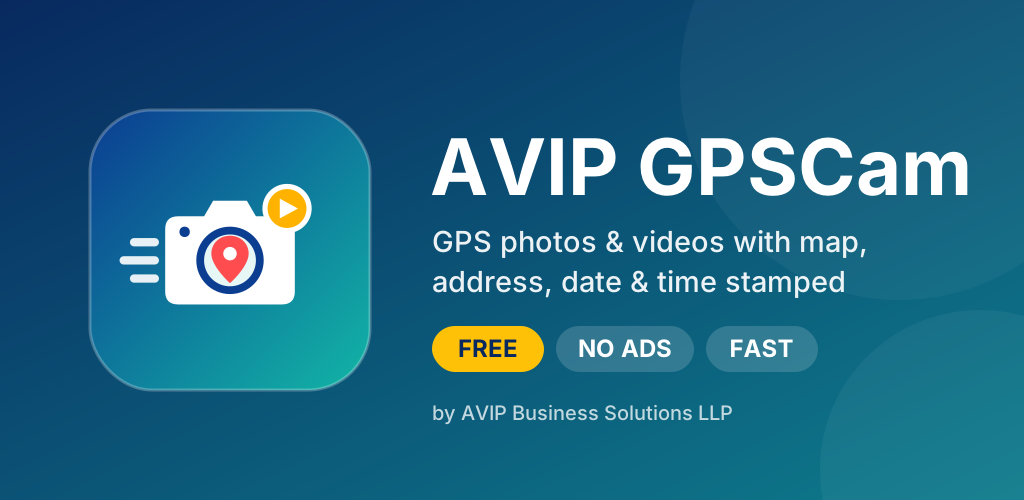
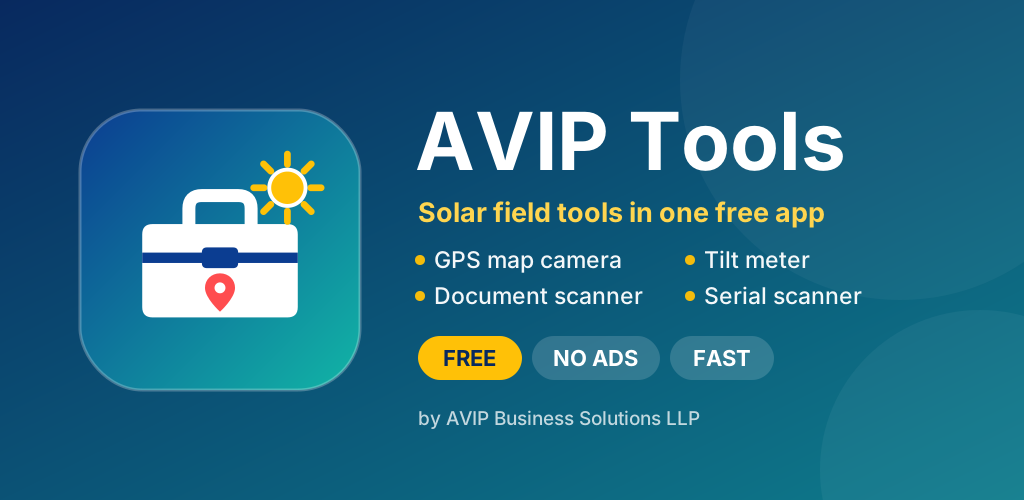
AVIP Tools: privacy policy, Play listing and graphics for the new tools [skip ci]
Claude-Session: https://claude.ai/code/session_01HDzCaW6anExMwJiEikiLrr

diff --git a/docs/privacy.html b/docs/privacy.html
@@ -3,7 +3,7 @@
 <head>
 <meta charset="utf-8">
 <meta name="viewport" content="width=device-width, initial-scale=1">
-<title>AVIP GPSCam – Privacy Policy</title>
+<title>AVIP Tools – Privacy Policy</title>
 <style>
   :root { --ink:#1b2430; --muted:#5b6673; --brand:#0B3D91; --bg:#ffffff; --line:#e3e8ee; }
   body { margin:0; background:var(--bg); color:var(--ink);
@@ -21,10 +21,10 @@
 </head>
 <body>
 <main>
-<h1>AVIP GPSCam – Privacy Policy</h1>
-<p class="muted">Effective date: 31 October 2026</p>
+<h1>AVIP Tools – Privacy Policy</h1>
+<p class="muted">Effective date: 2 November 2026 · AVIP Tools was previously called AVIP GPSCam</p>
 
-<p>AVIP GPSCam ("the app") is a free camera app published by <strong>AVIP Business Solutions LLP</strong>
+<p>AVIP Tools ("the app") is a free set of field tools – GPS camera, tilt meter, document scanner and serial number scanner – published by <strong>AVIP Business Solutions LLP</strong>
 ("AVIP", "we", "us"), AIIMS–Naubatpur New Nahar Road, Patna – 801109, Bihar, India.
 This policy explains what information the app uses, why, and the choices you have.</p>
 
@@ -49,9 +49,16 @@ for marketing if you did not give consent.</p>
   <tr><td>Camera</td><td>Taking photos and recording videos.</td></tr>
   <tr><td>Microphone</td><td>Recording sound with videos. If you deny it, videos are recorded without sound.</td></tr>
   <tr><td>Location (precise and approximate)</td><td>Stamping your location (map, address, latitude and longitude) on your photos and videos, and adding GPS details to the photo file. Location is used only while the app is open; it is never used in the background.</td></tr>
-  <tr><td>Motion sensors</td><td>Showing the level line and the north arrow / direction the camera faces.</td></tr>
+  <tr><td>Motion sensors</td><td>The level line, the north arrow / direction the camera faces, and the Tilt Meter. Sensor readings stay on the phone.</td></tr>
 </table>
-<p>Your photos, videos and your location are <strong>not uploaded to AVIP</strong>. Photos and videos are saved
+
+<h2>2a. Document Scanner and Serial Scanner</h2>
+<ul>
+  <li><strong>Document Scanner</strong> uses Google's ML Kit document scanner, provided by Google Play services on your phone. Pages are processed on the phone and saved as PDF files in the <em>Documents/AVIP Tools</em> folder. They are not uploaded to AVIP.</li>
+  <li><strong>Serial Scanner</strong> reads barcodes, QR codes and printed serial numbers with Google ML Kit, on the phone. Your serial-number lists are stored only on your phone and are shared only when you choose to share them (for example as an Excel/CSV file or text).</li>
+  <li>To run these features, Google ML Kit may send Google limited diagnostic information: device details (manufacturer, model, Android version), app name and version, an installation or device identifier, and performance and error information. Google uses this to run and improve ML Kit; it does not include your images or scanned text. See the <a href="https://developers.google.com/ml-kit/android-data-disclosure">ML Kit data disclosure</a> and the <a href="https://policies.google.com/privacy">Google privacy policy</a>.</li>
+</ul>
+<p>Your photos, videos, scanned documents, serial numbers and your location are <strong>not uploaded to AVIP</strong>. Photos and videos are saved
 only on your phone, in the <em>Pictures/GPSMapCamera</em> folder, and are shared only when you choose to share them.</p>
 
 <h2>3. Services that receive your location</h2>
@@ -66,7 +73,7 @@ only on your phone, in the <em>Pictures/GPSMapCamera</em> folder, and are shared
 <h2>4. What we do not do</h2>
 <ul>
   <li>No advertisements and no advertising IDs.</li>
-  <li>No analytics or tracking tools.</li>
+  <li>No analytics or tracking tools of our own (Google ML Kit diagnostics are described in section 2a).</li>
   <li>We do not sell or rent your personal information to anyone.</li>
   <li>We do not access photos or files other than those the app itself saved.</li>
 </ul>
@@ -81,9 +88,9 @@ only by AVIP. We may disclose information if required by law.</p>
 <h2>7. Your choices and deleting your data</h2>
 <ul>
   <li>You can deny any permission in your phone's settings; the related feature will then not work.</li>
-  <li>You can delete photos and videos at any time from the app's gallery or your phone's gallery.</li>
+  <li>You can delete photos, videos, PDFs and serial lists at any time from inside the app or from your phone's files and gallery.</li>
   <li>To stop marketing messages, or to have your registration details deleted, email
-    <a href="mailto:contact@avipsolar.in?subject=AVIP%20GPSCam%20data%20deletion">contact@avipsolar.in</a>
+    <a href="mailto:contact@avipsolar.in?subject=AVIP%20Tools%20data%20deletion">contact@avipsolar.in</a>
     or call <a href="tel:+919288076289">+91 92880 76289</a> with the mobile number you registered.
     We will delete your details within 30 days.</li>
 </ul>

diff --git a/docs/index.html b/docs/index.html
@@ -1,4 +1,4 @@
 <!doctype html>
 <html lang="en"><head><meta charset="utf-8"><meta name="viewport" content="width=device-width, initial-scale=1">
-<title>AVIP GPSCam</title><meta http-equiv="refresh" content="0; url=privacy.html"></head>
-<body><p><a href="privacy.html">AVIP GPSCam – Privacy Policy</a></p></body></html>
+<title>AVIP Tools</title><meta http-equiv="refresh" content="0; url=privacy.html"></head>
+<body><p><a href="privacy.html">AVIP Tools – Privacy Policy</a></p></body></html>

diff --git a/play-store/LISTING.md b/play-store/LISTING.md
@@ -1,38 +1,49 @@
-# AVIP GPSCam – Google Play listing and submission guide
+# AVIP Tools – Google Play listing and submission guide
 
-App ID on Google Play: **in.avipsolar.gpscam** (permanent – cannot be changed after the first upload)
+App ID on Google Play: **in.avipsolar.tools** (permanent – cannot be changed after the first upload)
 Privacy policy URL: **https://avipbizsolutions.github.io/GPSMapCamera/privacy.html**
+(AVIP Tools was previously called AVIP GPSCam. The link version keeps its old ID so existing users update automatically.)
 
 ## 1. Store listing (Grow → Store presence → Main store listing)
 
-**App name** (max 30): `AVIP GPSCam: GPS Map Camera`
+**App name** (max 30): `AVIP Tools: GPS Cam & Scanner`
 
 **Short description** (max 80):
-`Free GPS camera: stamp map, address, date & time on photos & videos. No ads.`
+`GPS map camera, tilt meter, PDF scanner & serial number scanner. Free, no ads.`
 
 **Full description:**
 
-AVIP GPSCam stamps every photo and video with a map, the full address, latitude and longitude, date and time, and the direction the camera faced. It is ideal proof for site visits, solar and electrical installations, inspections, deliveries, construction progress and any field work.
+AVIP Tools puts the everyday field tools of a solar, electrical or construction team into one free app: a GPS map camera, a tilt meter, a multi-page document scanner and a barcode / serial number scanner.
 
-**Why AVIP GPSCam**
+**Why AVIP Tools**
 • 100% free – no charges, ever
 • No ads – nothing to skip or close
-• Fast and reliable – opens quickly, finds your location while it loads
+• Fast and reliable – opens quickly and finds your location while it loads
 • Light on your phone – will not slow it down
 
-**Features**
-• GPS stamp with mini map, address, latitude/longitude, date and time
+**GPS Camera**
+• Stamps photos and videos with a mini map, address, latitude/longitude, date and time
 • North arrow and "Facing" direction on photos
 • See the stamp live on the camera screen before you shoot
-• Photos and videos, in portrait or landscape
-• HD or SD quality – choose smaller files for quick sharing
-• Zoom (pinch or 0.5x / 1x / 2x / 5x), tap to focus
-• Grid lines and a level to keep shots straight
+• Portrait or landscape, HD or SD, zoom, tap to focus, grid lines and level
 • Built-in gallery: swipe through, select several, share or delete
-• GPS details also saved inside the photo file (EXIF)
-• Works offline – coordinates and time are stamped even without internet
 
-Photos and videos stay on your phone in Pictures/GPSMapCamera and are shared only when you choose.
+**Tilt Meter**
+• Lay the phone on a roof or panel to read its angle
+• Bubble level, hold reading, set zero
+• Shows which way the surface faces and the best fixed panel tilt for your location
+
+**Document Scanner**
+• Scan many pages into one PDF with automatic cropping and clean-up
+• Saved in Documents/AVIP Tools – open, share or delete
+
+**Serial Scanner**
+• Make a list per site or customer and scan panel and inverter barcodes / QR codes – each new code is added automatically
+• Read printed serial numbers with text recognition and tap to add
+• Torch for dark inverter rooms, manual entry, copy all
+• Share the list as an Excel (CSV) file or as a text message
+
+Everything you capture stays on your phone and is shared only when you choose.
 
 Made by AVIP Business Solutions LLP, Patna – one stop solution for all your solar requirements.
 Contact: 9288076289 | 9939476289 | contact@avipsolar.in
@@ -40,9 +51,9 @@ Contact: 9288076289 | 9939476289 | contact@avipsolar.in
 **Graphics**
 - App icon: `play-icon-512.png` (512 × 512)
 - Feature graphic: `play-feature-graphic-1024x500.png` (1024 × 500)
-- Phone screenshots (2–8 needed, take on your phone): camera screen with the live stamp; a saved photo with the stamp; a landscape photo; the gallery with items selected; the full-screen viewer; the launch screen.
+- Phone screenshots (2–8, take on your phone): home screen; GPS camera with the live stamp; a saved photo with the stamp; Tilt Meter on a roof/panel; Document Scanner with saved PDFs; Serial Scanner with a list of scanned serials.
 
-**Category:** Photography  **Tags:** Camera, Photography, Tools
+**Category:** Tools  **Tags:** Camera, Productivity, Tools
 **Contact details:** email contact@avipsolar.in, phone +91 9288076289, website https://avipsolar.in
 
 ## 2. App content (Policy → App content)
@@ -71,23 +82,25 @@ Contact: 9288076289 | 9939476289 | contact@avipsolar.in
 | Personal info → Name | Yes | No | Required | Developer communications, Marketing |
 | Personal info → Phone number | Yes | No | Required | Developer communications, Marketing |
 | Personal info → Other info (company name) | Yes | No | Required | Developer communications, Marketing |
-| Device or other IDs (random install ID created by the app) | Yes | No | Required | App functionality |
+| Device or other IDs (random install ID created by the app; ML Kit installation/device identifier) | Yes | No | Required | App functionality, Analytics |
+| App info and performance → Diagnostics (ML Kit performance and error information, sent to Google) | Yes | No | Required | Analytics |
 | Location → Approximate location (map tiles requested from OpenStreetMap) | Yes, processed ephemerally | Yes (OpenStreetMap, for the map image) | Required for the map stamp | App functionality |
 
-Not collected (stay on the phone): precise location, photos, videos, audio, files, contacts, app activity. Sharing a photo is user-initiated and is not declared.
+Not collected (stay on the phone): precise location, photos, videos, scanned documents, scanned serial numbers, audio, files, contacts. Sharing a photo, PDF or serial list is started by the user and is not declared.
+Google ML Kit's own disclosure: https://developers.google.com/ml-kit/android-data-disclosure
 
 ## 4. Release (Test and release)
 
-1. **Play App Signing:** keep Google's default (Google manages the app signing key). Our file `avip-gpscam-upload.jks` is the **upload key**.
+1. **Play App Signing:** keep Google's default (Google manages the app signing key). Our file `avip-gpscam-upload.jks` is the **upload key** (the name is from before the rename; it is still the right key).
 2. Personal developer account: create a **Closed testing** track first, add at least 12 testers, keep them opted in for 14 days, then apply for production. Organization account: go straight to **Production**.
-3. Upload `AVIP-GPSCam-play-<version>.aab`. Release name: the version. Release notes:
-   `First release of AVIP GPSCam – free GPS map camera with live stamp, photos and videos, HD/SD, zoom, grid & level, gallery with share and delete.`
+3. Upload `AVIP-Tools-play-<version>.aab`. Release notes:
+   `First release of AVIP Tools – GPS map camera, tilt meter, multi-page PDF document scanner and barcode / serial number scanner. Free, no ads.`
 4. Countries: India (add others if wanted). Price: Free.
 5. Send for review (usually a few days for a new app).
 
 ## 5. Future updates
 
-Every change pushed to GitHub builds a new Play bundle with a higher version number automatically. It is published unsigned (`AVIP-GPSCam-play-unsigned.aab`) and signed with the upload key before uploading to Play. To have GitHub sign it automatically, add these repository secrets (GitHub → repo → Settings → Secrets and variables → Actions):
+Every change pushed to GitHub builds a new Play bundle with a higher version number automatically. It is published unsigned (`AVIP-Tools-play-unsigned.aab`) and signed with the upload key before uploading to Play. To have GitHub sign it automatically, add these repository secrets (GitHub → repo → Settings → Secrets and variables → Actions):
 `UPLOAD_KEYSTORE_BASE64` (the .jks file, base64), `UPLOAD_KEYSTORE_PASSWORD`, `UPLOAD_KEY_ALIAS` = `upload`, `UPLOAD_KEY_PASSWORD`.
 
 ## 6. Keep safe

diff --git a/README.md b/README.md
@@ -1,4 +1,6 @@
-# AVIP GPSCam (Android) — v2.0
+# AVIP Tools (Android) — v3.0
+
+Formerly AVIP GPSCam. Tools: GPS Camera, Tilt Meter, Document Scanner (multi-page PDF), Serial Scanner (barcode/QR + printed serials), My Photos & Videos.
 
 Developed by AVIP Business Solutions LLP.
 
@@ -16,7 +18,7 @@ Take a photo or record a video and get a stamp burned into it: mini map with a p
 ## Automatic updates
 Every push to `main` publishes a GitHub Release (`v2.0.<build>`). On launch the app checks the latest release; if it is newer it downloads and installs it from the splash screen, then shows "Updated to the latest version". The first time, Android asks once to allow the app to install updates; depending on the phone, each update may still need one tap on Android's "Update" prompt.
 
-Download (always the latest version): https://github.com/avipbizsolutions/GPSMapCamera/releases/latest/download/AVIP-GPSCam.apk
+Download (always the latest version): https://github.com/avipbizsolutions/GPSMapCamera/releases/latest/download/AVIP-Tools.apk
 
 ## 100% free – no API keys, no billing
 - **Map thumbnail:** OpenStreetMap tiles (free, attribution shown on the map)
